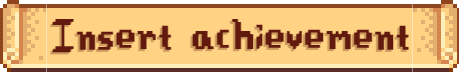
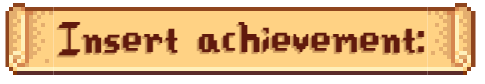
botones nuevos y cambios en otros, pipe display achievements

diff --git a/client/stardew-valley/src/app/add-element/add-element.component.html b/client/stardew-valley/src/app/add-element/add-element.component.html
@@ -131,20 +131,20 @@
           </div>
           <div class="mb-3">
             <label for="img" class="form-label">Image URL</label>
-            <input #imgValue type="url" [(ngModel)] ="vilForm.value.img" (change)="imgUploaded(imgValue.value)">
+            <input #imgValue type="url" [(ngModel)] ="vilForm.value.img" (change)="imgUploaded(imgValue.value)" class="form-control">
             <img height="100px" width="100px" *ngIf="imgUrl && !wrongImgFormat" [src]="imgUrl" alt="">
             <div *ngIf="wrongImgFormat">
               <p class="text-danger">Error: Wrong image format, please use png or jpg</p>
             </div>
           </div>
-        <button style="padding: 0" type="submit"><img id="btn-add" style="height: 50px;" src="../../assets/add-element-s.png"/></button>
+        <button style="padding: 0" type="submit"><img id="btn-add" style="height: 50px;" src="../../assets/add-villager.png"/></button>
     </form> 
   </div>
 
   <div class="formContainer mt-3">
 
     <form #achForm="ngForm" ngNativeValidate (ngSubmit)= "submitElement(achForm.value, false)" class="p-4 rounded">
-      <img src="../../assets/insert-a-villager.png">
+      <img src="../../assets/insert-achievement.png">
         <div class="mb-3">
             <label for="achName" class="form-label">Name:</label>
             <input type="text" maxlength="20" class="form-control" id="name" name="name" [(ngModel)]="achForm.value.name" required>
@@ -170,7 +170,7 @@
         </div>
         <input type="hidden" [(ngModel)]="achForm.value.hat_earned" value=" ">
         <input type="hidden" [(ngModel)]="achForm.value.type" value="achievement">
-        <button style="padding: 0" type="submit"><img id="btn-add" style="height: 50px;" src="../../assets/add-element-s.png"/></button>
+        <button style="padding: 0" type="submit"><img id="btn-add" style="height: 50px;" src="../../assets/add-achievement.png"/></button>
     </form> 
   </div>
 </div>

diff --git a/client/stardew-valley/src/app/achievements/achievements.component.html b/client/stardew-valley/src/app/achievements/achievements.component.html
@@ -19,9 +19,9 @@
                         <div class="row card register my-2 p-3 d-flex flex-row justify-content-around align-items-center">
                                 <img class="card-img col-3" [src]="achievement.img" alt="{{achievement.name}} Image">
                                 <h3 class="col-2">{{achievement.name}}</h3>
-                                <h3 class="col-3 ">{{achievement.description}}</h3>
-                                <h3 class="col-3">{{achievement['display_on_collections_tab_before_earned']}}</h3>
-                                <h3 class="col-1">{{achievement['prerequisite_achievement']}}</h3>
+                                <h3 class="col-3">{{achievement.description}}</h3>
+                                <h3 class="col-3">{{achievement.display_on_collections_tab_before_earned | displayBeforeEarned }}</h3>
+                                <h3 class="col-1">{{achievement.prerequisite_achievement}}</h3>
                         </div>
                     </tr>
                 </tbody>

diff --git a/client/stardew-valley/src/app/villager-detail/villager-detail.component.html b/client/stardew-valley/src/app/villager-detail/villager-detail.component.html
@@ -40,6 +40,18 @@
                         {{day}}</p>
                   </div>
                 </div>
+                <div class="row justify-content-evenly">
+                  <div class="col d-flex">
+                    <form  class="p-4 rounded">
+                      <button style="padding: 0" type="submit"><img id="btn-add" style="height: 50px;" src="../../assets/edit-villager.png"/></button>
+                    </form>
+                  </div>
+                  <div class="col">
+                    <form  class="p-4 rounded">
+                      <button style="padding: 0" type="submit"><img id="btn-add" style="height: 50px;" src="../../assets/delete-villager.png"/></button>
+                    </form>
+                  </div>
+                </div>
               </div>
             </div>
           </div>

diff --git a/client/stardew-valley/src/app/app.module.ts b/client/stardew-valley/src/app/app.module.ts
@@ -18,6 +18,7 @@ import { FooterComponent } from './footer/footer.component';
 import { AddElementComponent } from './add-element/add-element.component';
 import { MyDatablePipe } from './custom.datablepipe';
 import { VillagerDetailComponent } from './villager-detail/villager-detail.component';
+import { MyDisplayBeforeEarnedPipe } from './custom.displaybeforeearnedpipe';
 
 @NgModule({
   declarations: [
@@ -31,7 +32,8 @@ import { VillagerDetailComponent } from './villager-detail/villager-detail.compo
     FooterComponent,
     AddElementComponent,
     MyDatablePipe,
-    VillagerDetailComponent
+    VillagerDetailComponent,
+    MyDisplayBeforeEarnedPipe
   ],
   imports: [
     BrowserModule,

diff --git a/client/stardew-valley/src/app/custom.displaybeforeearnedpipe.ts b/client/stardew-valley/src/app/custom.displaybeforeearnedpipe.ts
@@ -1,0 +1,16 @@
+import { Pipe, PipeTransform } from '@angular/core';
+@Pipe({
+    name: 'displayBeforeEarned',
+    })
+    export class MyDisplayBeforeEarnedPipe implements PipeTransform {
+        transform(
+            value: any,
+        ): string | null {
+            if (value == true){
+                return 'yes'
+            } else if (value == false){
+                return 'no'
+            }
+            return value 
+        }
+    }

diff --git a/client/stardew-valley/src/app/add-element/add-element.component.css b/client/stardew-valley/src/app/add-element/add-element.component.css
@@ -12,11 +12,11 @@
     background-size: 150px;
 }
 
-h2, input[type=text], .form-label, .form-select{
+h2, input[type=text], input[type=number], input[type=url], .form-label, .form-select{
     font-family: 'StardewValley';
 }
 
-input[type=text]{
+input[type=text], input[type=number], input[type=url]{
     font-size: x-large;
 }
 .form-label{

diff --git a/client/stardew-valley/src/app/villager-detail/villager-detail.component.css b/client/stardew-valley/src/app/villager-detail/villager-detail.component.css
@@ -42,3 +42,8 @@ p{
     background-repeat: no-repeat;
     background-position: center; 
 }
+
+#btn-add:hover{
+    transition-delay:0.01s;
+    border: 2px solid;
+}
